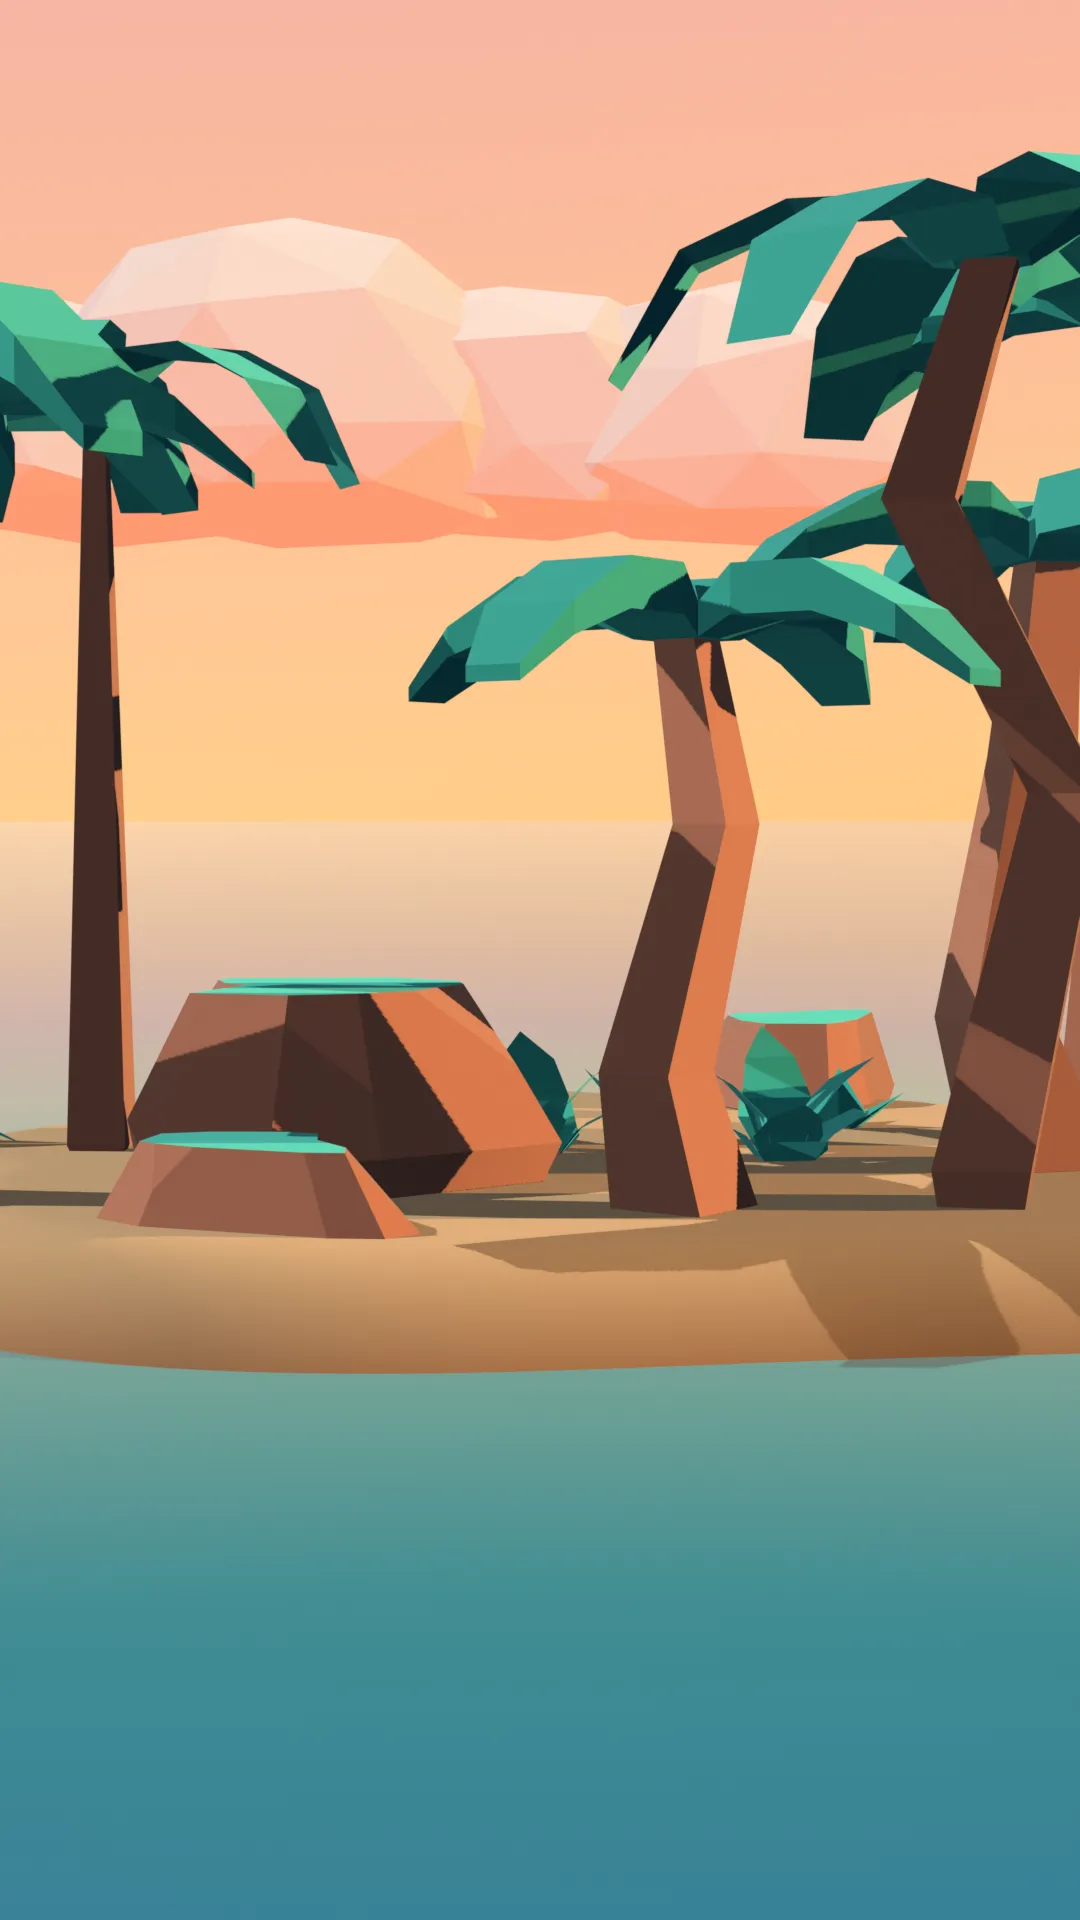
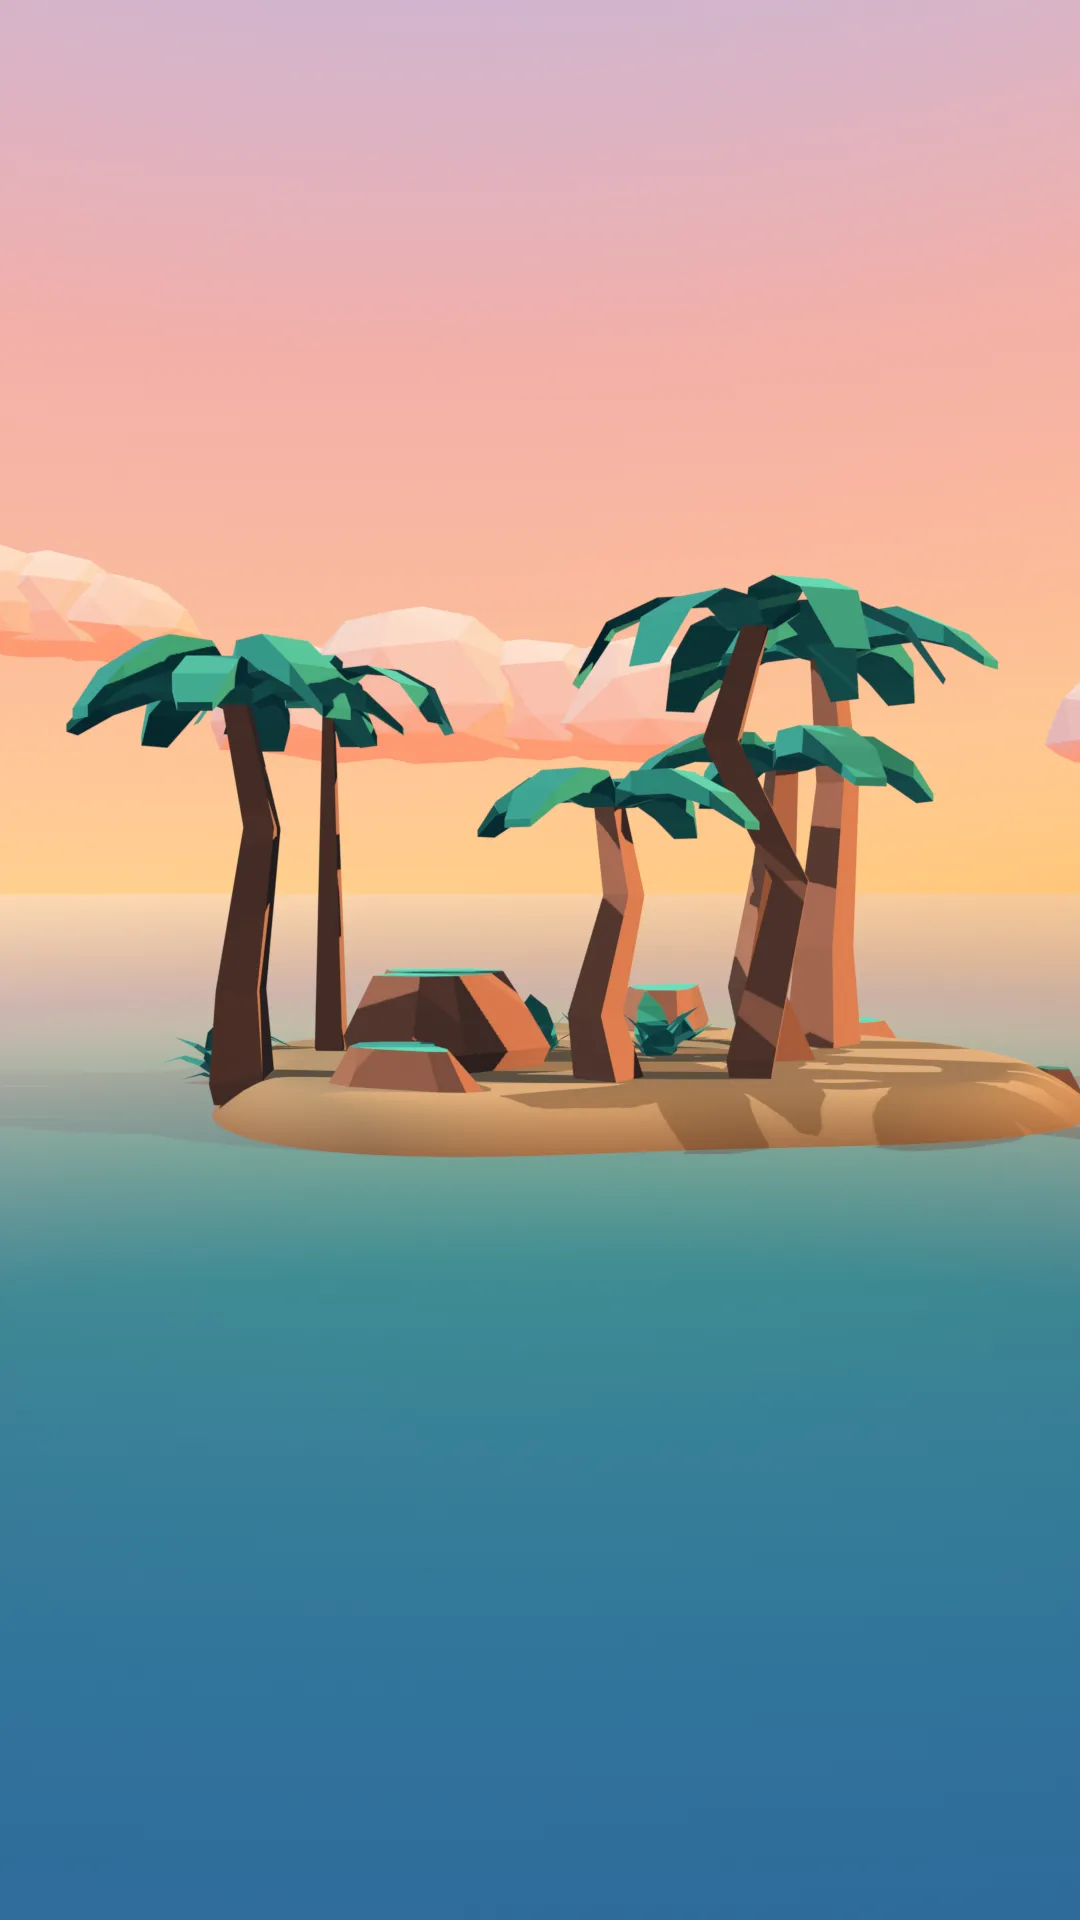
Celular: ilha inteira na vertical, balão sempre visível, sem bordas laranjas

diff --git a/home.css b/home.css
@@ -3,10 +3,11 @@
 @font-face { font-family: "Luckiest Guy"; src: url(fontes/luckiest-guy.ttf) format("truetype"); font-display: swap; }
 * { box-sizing: border-box; }
 html, body { height: 100%; margin: 0; overflow: hidden; }
-body { font: 16px/1.4 system-ui, -apple-system, "Segoe UI", Roboto, sans-serif; color: var(--tinta); background: #f3a46a; }
+body { font: 16px/1.4 system-ui, -apple-system, "Segoe UI", Roboto, sans-serif; color: var(--tinta); background: #2c5a63;
+  overscroll-behavior: none; }
 a { color: var(--tinta); }
 
-.cena { position: fixed; inset: -3%; background: url(img/ilha_larga.webp) center 60% / cover no-repeat;
+.cena { position: fixed; inset: -40px; background: url(img/ilha_larga.webp) center 60% / cover no-repeat;
   transition: transform .6s cubic-bezier(.2,.7,.2,1); will-change: transform; }
 .cena::after { content: ""; position: absolute; inset: 0;
   background: radial-gradient(ellipse at 50% 38%, transparent 35%, rgba(60,18,4,.55) 100%),
@@ -66,9 +67,23 @@ a { color: var(--tinta); }
 .rodape { position: fixed; bottom: 8px; left: 0; right: 0; text-align: center; font-size: 11px; opacity: .65; z-index: 3; }
 
 @media (max-aspect-ratio: 4/5) {
-  .cena { background-image: url(img/ilha_alta.webp); background-position: center 45%; }
-  .patrao { bottom: 41vh; width: min(56vh, 86vw); }
+  .cena { background-image: url(img/ilha_alta.webp); background-position: center 42%; }
   .marca { flex-direction: column; align-items: flex-start; gap: 6px; }
+  /* celular (21/10): o Patrão cabe entre o nome e a frase; o balão fica fixo embaixo do nome, sempre visível */
+  .patrao { top: max(130px, 22dvh); bottom: auto; left: 0; right: 0; margin: 0 auto; transform: none;
+    width: min(40dvh, 72vw); }
+  .balao { position: fixed; top: 76px; bottom: auto; left: 50%; transform: translateX(-50%); width: max-content;
+    max-width: 86vw; font-size: 15px; }
+  .balao.some { transform: translateX(-50%) scale(.9); }
+  .balao.fala { animation: pula-cel .35s cubic-bezier(.3,1.6,.5,1); }
+  .base { bottom: 28px; gap: 8px; }
+  .misterio { font-size: clamp(22px, 6.4vw, 30px); }
+  .misterio span { font-size: 13px; }
 }
+@media (max-aspect-ratio: 4/5) and (max-height: 700px) {
+  .patrao { width: min(31dvh, 58vw); top: max(118px, 19dvh); }
+  .misterio span br { display: none; }
+}
+@keyframes pula-cel { from { transform: translateX(-50%) scale(.6); } to { transform: translateX(-50%) scale(1); } }
 @media (max-height: 560px) { .misterio, .aceite { display: none; } .patrao { bottom: 22vh; } }
 @media (prefers-reduced-motion: reduce) { .cena { transition: none; } .balao.fala, .patrao.treme #rosto { animation: none; } }

diff --git a/index.html b/index.html
@@ -28,7 +28,7 @@
 </aside>
 
 <main class="base">
-  <p class="misterio">Quer um corno igual eu<br><em>trabalhando pra você?</em><span>Ainda não tá pronto: tô num turno de 18 por 6 pra terminar.<br>Deixa teu e-mail que te aviso quando sair.</span></p>
+  <p class="misterio">Quer um corno igual eu<br><em>trabalhando pra você?</em><span>Ainda não tá pronto: tô num turno de 18 por 6 pra terminar. <br>Deixa teu e-mail que te aviso quando sair.</span></p>
 
   <form id="lista" class="email" autocomplete="on" novalidate>
     <input name="email" data-fala="email" type="email" required maxlength="120" autocomplete="email"

diff --git a/patrao.js b/patrao.js
@@ -84,7 +84,7 @@
   let px = innerWidth / 2, py = innerHeight / 2, pendente = false;
   addEventListener("pointermove", (e) => {
     px = e.clientX; py = e.clientY;
-    if (cena) cena.style.transform = `translate(${(px / innerWidth - .5) * -18}px, ${(py / innerHeight - .5) * -10}px)`;
+    if (cena && e.pointerType === "mouse") cena.style.transform = `translate(${(px / innerWidth - .5) * -18}px, ${(py / innerHeight - .5) * -10}px)`;
     if (!pendente) { pendente = true; requestAnimationFrame(() => { pendente = false; olharPara(px, py); }); }
     reiniciarParado();
   }, { passive: true });
